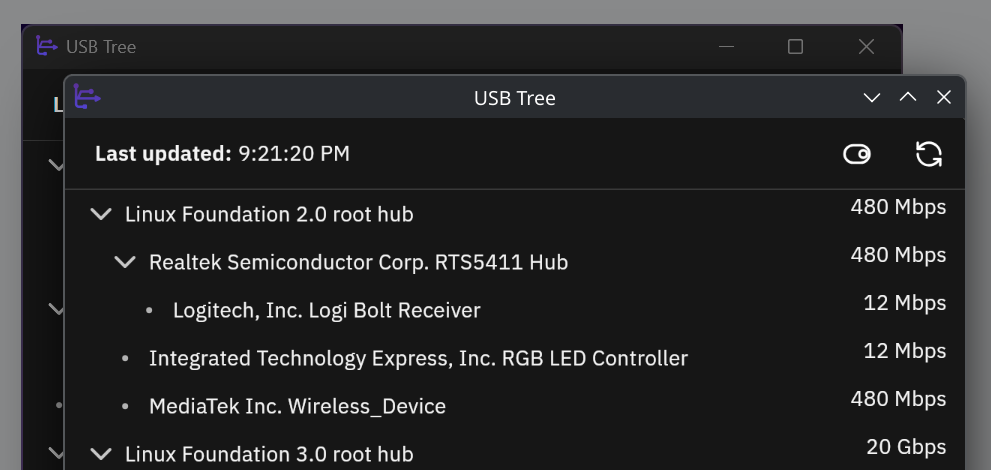
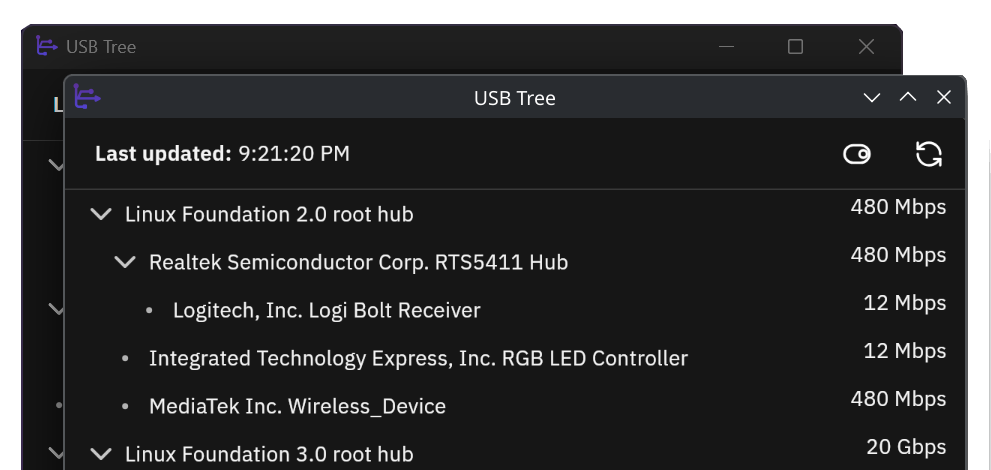
made multi-os background transparent and removed css background color.

Changed region(s): [[0.0, 0.0, 1.0, 1.0]]

diff --git a/components/Features/SingleFeature.tsx b/components/Features/SingleFeature.tsx
@@ -25,7 +25,7 @@ export default function SingleFeature({ feature }: { feature: Feature }) {
         viewport={{ once: true }}
         className="shadow-solid-3 hover:shadow-solid-4 dark:border-strokedark dark:bg-blacksection dark:hover:bg-hoverdark z-40 rounded-lg border border-white bg-white p-7.5 transition-all xl:p-12.5"
       >
-        <div className="bg-primary relative flex items-center justify-center rounded-[4px]">
+        <div className="relative flex items-center justify-center rounded-[4px]">
           <img src={icon} alt={alt} />
         </div>
         <h3 className="xl:text-itemtitle mt-7.5 mb-5 text-xl font-semibold text-black dark:text-white">
